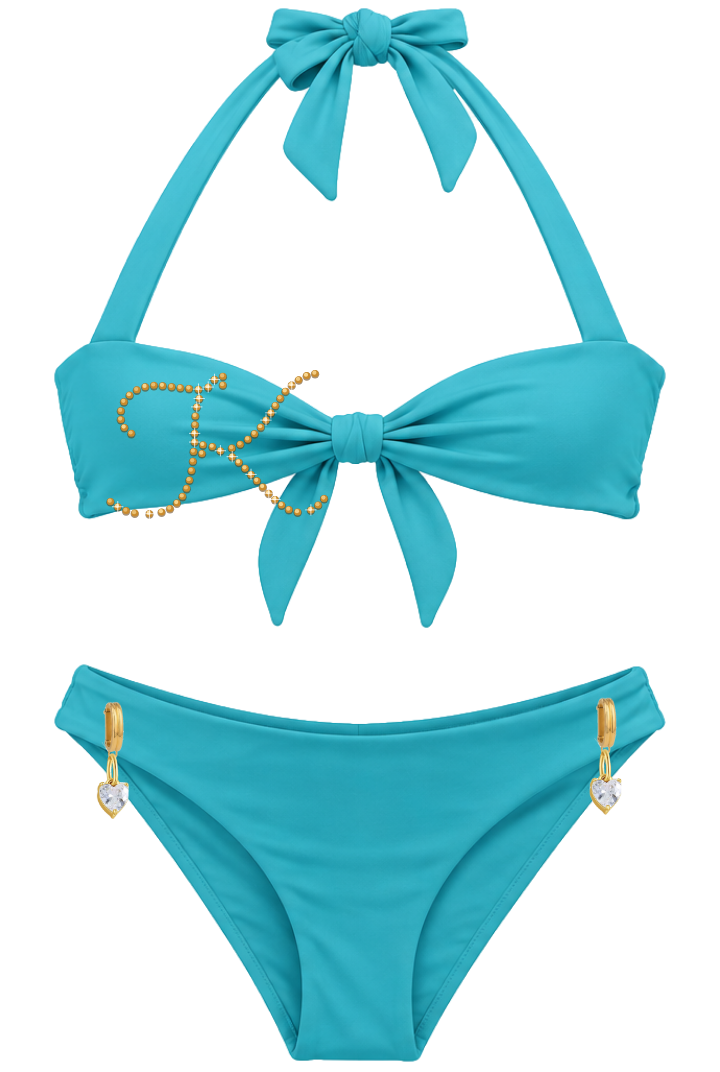
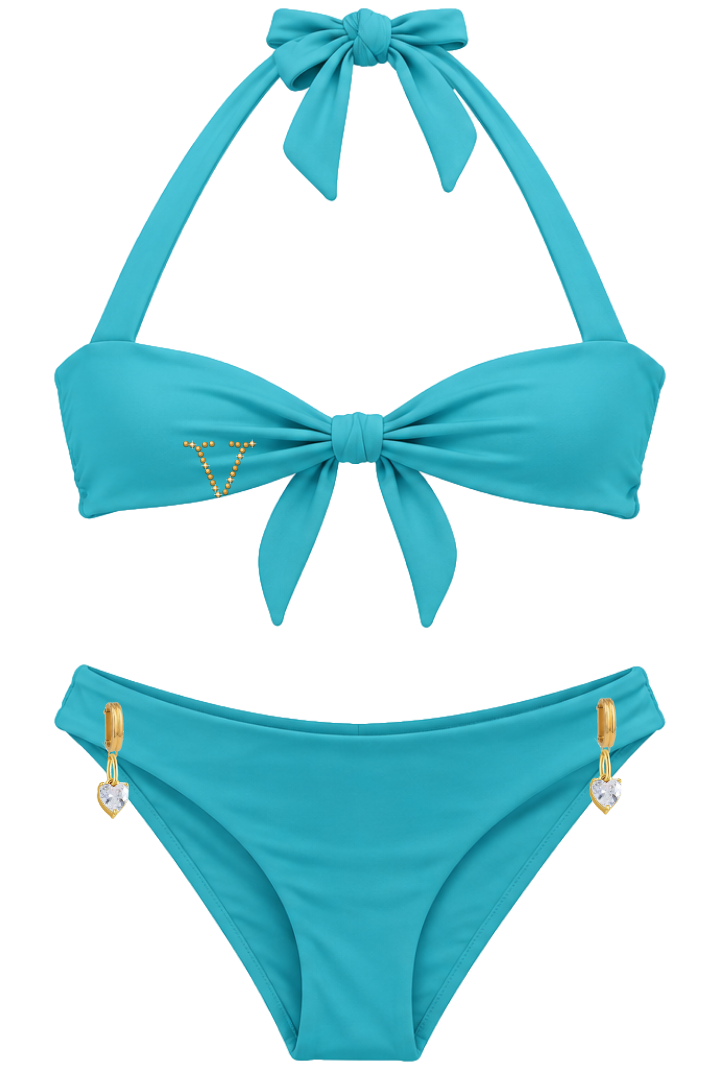
Smaller rhinestone letters and mini bows, fringe as thin separate strands
Claude-Session: https://claude.ai/code/session_01PhnKHNsSfEPVo4yL2BRkJT

diff --git a/index.html b/index.html
@@ -2591,21 +2591,22 @@
     return wrap;
   }
 
-  var FRINGE_HEX={black:"#262022",teal:"#2FACBE",lightpink:"#F5BCD0",darkpink:"#DB417A"};
+  var FRINGE_HEX={black:"#262022",teal:"#2FACBE",lightpink:"#F2A9C4",darkpink:"#DB417A"};
   function fringeOn(svg,sg,fl,W,fv,dir){ // a woven tape along one edge with dense strands falling off it
-    var fc=FRINGE_HEX[fv]||"#262022", fw=Math.max(W*0.0032,1), gap=W*0.0042;
+    var fc=FRINGE_HEX[fv]||"#262022", fw=Math.max(W*0.0024,0.8), gap=W*0.0058;
     var dx=sg[2]-sg[0], dy=sg[3]-sg[1], len=Math.sqrt(dx*dx+dy*dy), n=Math.max(2,Math.round(len/gap));
     dir=dir||[0,1];
     for(var fi=0;fi<=n;fi++){
-      var t=fi/n, x=sg[0]+dx*t, y=sg[1]+dy*t, sw=Math.sin(fi*1.7+x)*fl*0.12, ln=fl*(0.72+0.28*Math.abs(Math.sin(fi*2.3+x*0.1)));
+      var rnd=function(k){ var v=Math.sin(fi*12.9898+k*78.233)*43758.5453; return v-Math.floor(v); }; // every strand a little different, no pattern
+      var t=fi/n, x=sg[0]+dx*t, y=sg[1]+dy*t, sw=(rnd(1)-0.5)*fl*0.14, ln=fl*(0.86+0.14*rnd(2));
       var ex=dir[0]*ln-dir[1]*sw, ey=dir[1]*ln+dir[0]*sw;
       var d="M"+x+","+y+" q"+(ex*0.5+sw*0.3)+","+(ey*0.5)+" "+ex+","+ey;
-      el("path",{d:d,stroke:"rgba(46,36,51,.12)","stroke-width":fw+0.6,fill:"none","stroke-linecap":"round"},svg);
+      el("path",{d:d,stroke:"rgba(46,36,51,.1)","stroke-width":fw+0.5,fill:"none","stroke-linecap":"round",transform:"translate(0,"+(fw*0.8)+")"},svg);
       el("path",{d:d,stroke:fc,"stroke-width":fw,fill:"none","stroke-linecap":"round",opacity:0.95},svg);
     }
     var tape="M"+sg[0]+","+sg[1]+" L"+sg[2]+","+sg[3];
-    el("path",{d:tape,stroke:"rgba(46,36,51,.3)","stroke-width":W*0.016+1,fill:"none","stroke-linecap":"round"},svg);
-    el("path",{d:tape,stroke:fc,"stroke-width":W*0.016,fill:"none","stroke-linecap":"round"},svg);
+    el("path",{d:tape,stroke:"rgba(46,36,51,.22)","stroke-width":W*0.009+0.8,fill:"none","stroke-linecap":"round"},svg);
+    el("path",{d:tape,stroke:fc,"stroke-width":W*0.009,fill:"none","stroke-linecap":"round"},svg);
     el("path",{d:tape,stroke:"rgba(255,255,255,.25)","stroke-width":W*0.004,"stroke-dasharray":(W*0.006)+" "+(W*0.005),fill:"none"},svg);
   }
   /* rhinestone letters, sized like the samples: one big script capital across the cup ("K"), or a lowercase word
@@ -2644,7 +2645,7 @@
     var place=cfg("rhinestones","place"), rt=R.letters(state.rsText,place==="butt"?4:3)||(place==="butt"?"k":"K"), n=rt.length;
     var gold=cfg("rhinestones","metal")==="gold", col=gold?"#C98B2E":"#E3E7EE", hi=gold?"#FFE2A0":"#FFFFFF", edge=gold?"rgba(96,58,12,.55)":"rgba(70,80,95,.35)", fs;
     if(place==="butt") fs=W*(n>3?0.23:n>2?0.27:n>1?0.29:0.3);
-    else { fs=W*(n>2?0.14:n>1?0.19:(state.topStyle==="triangle"?0.25:0.31)); fs=Math.min(fs, W*(state.topStyle==="triangle"?0.22:0.3)/(0.45*n)); } // fit inside the cup
+    else { fs=W*(n>2?0.14:n>1?0.19:(state.topStyle==="triangle"?0.19:0.22)); fs=Math.min(fs, W*(state.topStyle==="triangle"?0.22:0.3)/(0.45*n)); } // fit inside the cup
     // crystals set along the CENTER of each script stroke, one row, evenly spaced (like the samples)
     var dot=fs*0.036, gap=dot*1.22;
     var dy=place==="butt"?0:fs*0.14; // the bigger letter sits a little lower so it stays on the cup
@@ -2708,7 +2709,7 @@
     if(on("fringe") && (isTop || cfg("fringe","lower")==="front")){
       // the real fringe (photo): woven tape along the edge, strands falling over the piece
       var fl=H*(isTop?(tri?0.17:0.16):0.14), fg=el("g",{style:"filter:drop-shadow(0 "+(W*0.004).toFixed(2)+"px "+(W*0.005).toFixed(2)+"px rgba(40,25,40,.35))"},svg);
-      fringeSegs(g,isTop).forEach(function(sg){ hangStrip(fg,"fringe-p-"+variantOf("fringe"),sg,fl,0.06); });
+      fringeSegs(g,isTop).forEach(function(sg){ fringeOn(fg,sg,fl,W,variantOf("fringe")); }); // thin separate strands, the fabric shows between them
     }
 
     /* Tier 2: connectors (triangle: middle of the top + both sides of the bottom; bralette: both halter straps) */
@@ -2738,7 +2739,7 @@
       pts.forEach(function(p){ var sc=id==="roses"?Math.max(p[1],0.9):p[1]; img(svg,name,p[0][0],p[0][1],w*sc,h*sc,0,1); });
     }
     if(on("roses")){ var rw=W*(tri?0.145:0.12); spots("roses","p-rose-leaf",rw,rw*41/72); } // a little satin rose with two leaves (the sample)
-    if(on("bows")){ var bw=W*(tri?0.2:0.165); spots("bows","p-bow-"+variantOf("bows"),bw,bw*97/138); }
+    if(on("bows")){ var bw=W*(tri?0.135:0.105); spots("bows","p-bow-"+variantOf("bows"),bw,bw*97/138); }
 
     /* Tier 3: buttons. Triangle: along the lace line. Bralette + seamless: a little cluster of 1 to 3 in each corner,
        small and large mixed, like the coral sample (first one tucked in the corner, the next beside it, the third below) */
